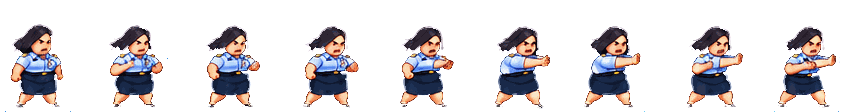
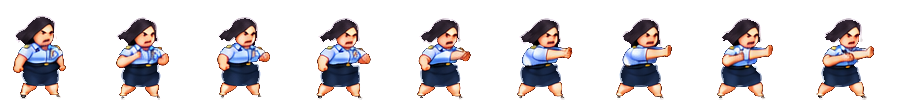
v71: YOTA remodel from the no-grid sheet — registered frames, smooth idle, matched scale
Claude-Session: https://claude.ai/code/session_01VFZcD5MpvnMAPzCcrJgChf

diff --git a/public/index.html b/public/index.html
@@ -9,9 +9,9 @@
 <meta name="apple-mobile-web-app-title" content="LETTERⁿ">
 <meta name="theme-color" content="#08070f">
 <meta name="description" content="LETTERⁿ — เกมสะกดคำภาษาอังกฤษสู้มอนสเตอร์">
-<link rel="manifest" href="manifest.json?v=70">
-<link rel="icon" href="icons/icon-192.png?v=70">
-<link rel="apple-touch-icon" href="icons/apple-touch-icon.png?v=70">
+<link rel="manifest" href="manifest.json?v=71">
+<link rel="icon" href="icons/icon-192.png?v=71">
+<link rel="apple-touch-icon" href="icons/apple-touch-icon.png?v=71">
 <meta name="apple-mobile-web-app-capable" content="yes">
 <title>LETTERⁿ — Word Battle RPG</title>
 <link rel="preconnect" href="https://fonts.googleapis.com">
@@ -1333,20 +1333,20 @@ button,.tile{touch-action:manipulation;-webkit-tap-highlight-color:transparent}
   .modal-box,.sheet{max-height:92vh;overflow-y:auto}
 }
 </style>
-<link rel="stylesheet" href="css/ql2.css?v=70">
-<link rel="stylesheet" href="css/endgame.css?v=70">
-<link rel="stylesheet" href="css/battle.css?v=70">
-<link rel="stylesheet" href="css/ui26.css?v=70">
-<link rel="stylesheet" href="css/boss.css?v=70">
-<link rel="stylesheet" href="css/tactics.css?v=70">
-<link rel="stylesheet" href="css/ecl.css?v=70">
+<link rel="stylesheet" href="css/ql2.css?v=71">
+<link rel="stylesheet" href="css/endgame.css?v=71">
+<link rel="stylesheet" href="css/battle.css?v=71">
+<link rel="stylesheet" href="css/ui26.css?v=71">
+<link rel="stylesheet" href="css/boss.css?v=71">
+<link rel="stylesheet" href="css/tactics.css?v=71">
+<link rel="stylesheet" href="css/ecl.css?v=71">
 </head>
 <body>
 <div id="app"></div>
-<script src="js/ql2/balance.js?v=70"></script>
-<script src="data/lexicon.js?v=70"></script>
-<script src="data/vocabulary.js?v=70"></script>
-<script src="js/ql2/vocab.js?v=70"></script>
+<script src="js/ql2/balance.js?v=71"></script>
+<script src="data/lexicon.js?v=71"></script>
+<script src="data/vocabulary.js?v=71"></script>
+<script src="js/ql2/vocab.js?v=71"></script>
 <script>window.__QL2 = 1; setTimeout(function(){ if(!window.__QL2_READY && typeof render==='function'){ window.__QL2 = 0; render(); } }, 5000);</script>
 <div class="toasts" id="toasts"></div>
 <div id="overlay"></div>
@@ -1794,7 +1794,7 @@ const ARMOR_OV = {
 */
 const HERO_IMG = {
 };
-const HERO_IMG_VER = 23; // เปลี่ยนภาพแล้วภาพเก่ายังค้าง → เพิ่มเลขนี้ทีละ 1
+const HERO_IMG_VER = 24; // เปลี่ยนภาพแล้วภาพเก่ายังค้าง → เพิ่มเลขนี้ทีละ 1
 function heroImgSVG(cfg){
   const h = cfg.h || 160, w = h, x = -w/2 + (cfg.dx||0), y = -h + (cfg.dy||0);
   const src = cfg.src + (cfg.src.includes('?') ? '&' : '?') + 'v=' + HERO_IMG_VER;
@@ -6076,7 +6076,7 @@ render();
 setMusic(save.settings.music);
 if('serviceWorker' in navigator && location.protocol.startsWith('http')) navigator.serviceWorker.register('service-worker.js', { updateViaCache:'none' }).then(r=>{ window.__swReg = r; }).catch(()=>{});
 /* v66: never run a half-updated game — if the server has a newer version, reload once (not in the middle of a battle / exam) */
-const APP_VERSION = 70;
+const APP_VERSION = 71;
 (function(){
   let busy = false;
   async function check(){
@@ -7069,40 +7069,40 @@ document.documentElement.classList.add('v16');
 if(ui.screen!=='battle') render();
 </script>
 <!-- Quest Lines 2.0 — World & Progression (loaded after the game; wraps it, never replaces the battle) -->
-<script src="js/ql2/core.js?v=70"></script>
-<script src="js/ql2/quests.js?v=70"></script>
-<script src="js/ql2/shell.js?v=70"></script>
-<script src="js/ql2/settings.js?v=70"></script>
-<script src="js/ql2/hub.js?v=70"></script>
-<script src="js/ql2/world.js?v=70"></script>
-<script src="js/ql2/questboard.js?v=70"></script>
-<script src="js/ql2/heroes.js?v=70"></script>
-<script src="js/ql2/inventory.js?v=70"></script>
-<script src="js/ql2/codex.js?v=70"></script>
-<script src="js/ql2/profile.js?v=70"></script>
-<script src="js/ql2/endgame-core.js?v=70"></script>
-<script src="js/ql2/endgame-modes.js?v=70"></script>
-<script src="js/ql2/endgame-ui.js?v=70"></script>
-<script src="js/ql2/armory.js?v=70"></script>
-<script src="js/ql2/items.js?v=70"></script>
-<script src="js/ql2/more.js?v=70"></script>
-<script src="js/ql2/wordfx.js?v=70"></script>
-<script src="js/ql2/boss-encounter.js?v=70"></script>
-<script src="js/ql2/zombies.js?v=70"></script>
-<script src="js/ql2/bestiary.js?v=70"></script>
-<script src="js/ql2/kirby.js?v=70"></script>
-<script src="js/ql2/knight.js?v=70"></script>
-<script src="js/ql2/unlocks.js?v=70"></script>
-<script src="js/ql2/tactics.js?v=70"></script>
-<script src="js/ql2/events.js?v=70"></script>
-<script src="js/ql2/ecl.js?v=70"></script>
-<script src="js/ql2/luffy.js?v=70"></script>
-<script src="js/ql2/sonic.js?v=70"></script>
-<script src="js/ql2/heroplus.js?v=70"></script>
-<script src="js/ql2/heroup.js?v=70"></script>
-<script src="js/ql2/ultcharge.js?v=70"></script>
-<script src="js/ql2/yota.js?v=70"></script>
-<script src="js/ql2/title.js?v=70"></script>
-<script src="js/ql2/dev.js?v=70"></script>
-<script src="js/ql2/boot.js?v=70"></script>
+<script src="js/ql2/core.js?v=71"></script>
+<script src="js/ql2/quests.js?v=71"></script>
+<script src="js/ql2/shell.js?v=71"></script>
+<script src="js/ql2/settings.js?v=71"></script>
+<script src="js/ql2/hub.js?v=71"></script>
+<script src="js/ql2/world.js?v=71"></script>
+<script src="js/ql2/questboard.js?v=71"></script>
+<script src="js/ql2/heroes.js?v=71"></script>
+<script src="js/ql2/inventory.js?v=71"></script>
+<script src="js/ql2/codex.js?v=71"></script>
+<script src="js/ql2/profile.js?v=71"></script>
+<script src="js/ql2/endgame-core.js?v=71"></script>
+<script src="js/ql2/endgame-modes.js?v=71"></script>
+<script src="js/ql2/endgame-ui.js?v=71"></script>
+<script src="js/ql2/armory.js?v=71"></script>
+<script src="js/ql2/items.js?v=71"></script>
+<script src="js/ql2/more.js?v=71"></script>
+<script src="js/ql2/wordfx.js?v=71"></script>
+<script src="js/ql2/boss-encounter.js?v=71"></script>
+<script src="js/ql2/zombies.js?v=71"></script>
+<script src="js/ql2/bestiary.js?v=71"></script>
+<script src="js/ql2/kirby.js?v=71"></script>
+<script src="js/ql2/knight.js?v=71"></script>
+<script src="js/ql2/unlocks.js?v=71"></script>
+<script src="js/ql2/tactics.js?v=71"></script>
+<script src="js/ql2/events.js?v=71"></script>
+<script src="js/ql2/ecl.js?v=71"></script>
+<script src="js/ql2/luffy.js?v=71"></script>
+<script src="js/ql2/sonic.js?v=71"></script>
+<script src="js/ql2/heroplus.js?v=71"></script>
+<script src="js/ql2/heroup.js?v=71"></script>
+<script src="js/ql2/ultcharge.js?v=71"></script>
+<script src="js/ql2/yota.js?v=71"></script>
+<script src="js/ql2/title.js?v=71"></script>
+<script src="js/ql2/dev.js?v=71"></script>
+<script src="js/ql2/boot.js?v=71"></script>
 </body></html>

diff --git a/public/js/ql2/yota.js b/public/js/ql2/yota.js
@@ -21,25 +21,26 @@
    ========================================================================== */
 (function(){
   const YT = BALANCE.YOTA, pc = x => `+${BALANCE.pct(x)}%`, K = 'yota', SVGNS = 'http://www.w3.org/2000/svg';
-  const S = 2;   // sprite scale (also used for the hand / palm positions below)
-  // v69b: re-cut from "Meshy AI · sprite sheet with walk cycle" (boxed frames, clean poses, isolated VFX)
-  HERO_SPRITE.yota = { dir:'heroes/yota/', ch:112, scale:S, face:'-32 -178 68 68',
+  const S = 1.4;   // sprite scale — sized to stand beside Mia / ELON (also used for the hand / palm positions below)
+  // v71: re-cut from "Meshy AI · sprite sheet (no grid lines)" — every pose is REGISTERED (frames
+  // aligned to each other by image correlation) so nothing wobbles; idle re-ordered into one smooth breath
+  HERO_SPRITE.yota = { dir:'heroes/yota/', ch:100, scale:S, face:'-24 -120 48 48',
     anims:{
-      idle:   { n:12, cw:80,  ax:38, dur:1.6, loop:true },
-      walk:   { n:12, cw:80,  ax:38, dur:1.0, loop:true, th:'เดิน' },
-      hurt:   { n:12, cw:96,  ax:42, dur:.8 },
-      dead:   { n:10, cw:120, ax:60, dur:1.5 },
-      push:   { n:9,  cw:96,  ax:38, dur:.7,  th:'ส่งค่าเช่าบ้านยัง!!!' },
-      palm:   { n:5,  cw:96,  ax:38, dur:.45, th:'ฝ่ามือทวงหนี้' },
-      charge: { n:6,  cw:96,  ax:38, dur:.6,  th:'ชาร์จลำแสง' },
-      fire:   { n:12, cw:96,  ax:38, dur:1.0, loop:true, th:'ลำแสงค่าเช่า' },
-      recover:{ n:15, cw:96,  ax:38, dur:1.0, th:'ปัดฝุ่น' } },
+      idle:   { n:12, cw:80,  ax:40, dur:1.8, loop:true },
+      walk:   { n:12, cw:80,  ax:40, dur:1.0, loop:true, th:'เดิน' },
+      hurt:   { n:12, cw:96,  ax:44, dur:.8 },
+      dead:   { n:7,  cw:160, ax:60, dur:1.3 },
+      push:   { n:9,  cw:100, ax:40, dur:.7,  th:'ส่งค่าเช่าบ้านยัง!!!' },
+      palm:   { n:5,  cw:100, ax:40, dur:.45, th:'ฝ่ามือทวงหนี้' },
+      charge: { n:6,  cw:100, ax:40, dur:.6,  th:'ชาร์จลำแสง' },
+      fire:   { n:12, cw:100, ax:40, dur:1.0, loop:true, th:'ลำแสงค่าเช่า' },
+      recover:{ n:15, cw:100, ax:40, dur:1.0, th:'ปัดฝุ่น' } },
     attacks:['palm','charge'], extra:['push','recover','walk'], demoOnly:true, finisher:'fire', finMin:99,
     finNote:`ท่าเปลี่ยนตามความยาวคำ: <b>3–4 ตัว</b> ฝ่ามือทวงหนี้ · <b>5–6 ตัว</b> ลำแสงค่าเช่า ${pc(YT.beam)} · <b>7 ตัวขึ้นไป / Critical</b> ไฮเปอร์บีมยึดบ้าน ${pc(YT.hyper)} ทะลุศัตรูที่รอคิว · ศัตรูรอดแต่ละเทิร์นค้างหนี้ 📄 เพิ่ม` };
-  const HAND = { x: (72-38)*S, y: (109-54)*S };    // arm stretched (fire frames)
-  const PALM = { x: (66-38)*S, y: (109-60)*S };    // the palm while charging / shoving
+  const HAND = { x: (73-40)*S, y: (97-45)*S };    // arm stretched (fire frames)
+  const PALM = { x: (69-40)*S, y: (97-50)*S };    // the palm while charging / shoving
   // isolated effects from the sheet (square cells)
-  const FXS = { orb:{ w:44, n:12 }, ring:{ w:64, n:5 }, dissolve:{ w:66, n:24 } };
+  const FXS = { orb:{ w:44, n:12 }, ring:{ w:60, n:5 }, dissolve:{ w:68, n:12 }, bits:{ w:68, n:12 } };
   Object.keys(FXS).forEach(k => { const i = new Image(); i.src = `heroes/yota/fx_${k}.png?v=${HERO_IMG_VER}`; });
   const sfxStrip = (k, o) => { const F = FXS[k]; try{ return window.QL_STRIP_FX ? QL_STRIP_FX(`heroes/yota/fx_${k}.png`, F.w, F.w, F.n, o) : null; }catch(e){ return null; } };
   // the same visibility rules the engine builds for its own sprite heroes (index.html sprCSS)
@@ -59,7 +60,7 @@
     const st = document.createElement('style'); st.textContent = css; document.head.appendChild(st);
     Object.keys(c.anims).forEach(n => { const i = new Image(); i.src = `${c.dir}${n}.png?v=${HERO_IMG_VER}`; });
   })();
-  try{ HERO_PORTRAIT.yota = { src:'heroes/yota/portrait.png', w:34, h:34, vb:'0 0 34 34' }; }catch(e){}
+  try{ HERO_PORTRAIT.yota = { src:'heroes/yota/portrait.png', w:36, h:36, vb:'0 0 36 36' }; }catch(e){}
 
   CHARACTERS.push({ id:K, devOnly:true, name:'YOTA', th:'โยตะ ผู้กองทวงค่าเช่า', price:5500, role:'ลำแสง · ทวงหนี้', skill:'ลำแสงทวงค่าเช่า',
     desc:`ก่อนสู้ทุกด่านยื่นมือทวง "ส่งค่าเช่าบ้านยัง!!!" · 3–4 ตัว ฝ่ามือทวงหนี้ · 5–6 ตัว ลำแสงค่าเช่า ${pc(YT.beam)} · 7 ตัวขึ้นไปหรือ Critical ไฮเปอร์บีมยึดบ้าน ${pc(YT.hyper)} ทะลุศัตรูที่รอคิว ${BALANCE.pct(YT.pierce)}% · ดอกเบี้ยค้างจ่าย: ศัตรูรอดแต่ละเทิร์นค้างหนี้ 📄 +1 (สูงสุด ${YT.debtMax}) ใบละ ${pc(YT.debtPer)} · ลำแสง (5 ตัวขึ้นไป) เก็บค่าเช่า ล้างหนี้ + ฟื้น HP ${BALANCE.pct(YT.healPer)}% ต่อใบ`,
@@ -135,7 +136,7 @@
     const W = w + 34, H = size + 22;
     box.setAttribute('x', -W/2); box.setAttribute('y', -H/2); box.setAttribute('width', W); box.setAttribute('height', H);
     // sits beside her head, the tail points back at her mouth
-    const x = opts.x || HERO_X + 30 + W/2, y = opts.y || FLOOR_Y - 138;
+    const x = opts.x || HERO_X + 30 + W/2, y = opts.y || FLOOR_Y - 112;
     tail.setAttribute('transform', `translate(${-W/2 + 6},4)`);
     g.appendChild(tail); g.appendChild(box); g.appendChild(t);   // tail behind the box
     g.insertBefore(tail, box);
@@ -409,7 +410,8 @@
     if(a){ a.classList.add('dead'); sprRestart('dead'); }
     try{ sfx.hurt(); }catch(err){}
     await sleep(sprMs('dead', 1500) + 150);
-    const d = sfxStrip('dissolve', { x:HERO_X, y:FLOOR_Y + 10, anchor:'b', scale:2.6, ms:55 });
+    const d = sfxStrip('dissolve', { x:HERO_X, y:FLOOR_Y + 8, anchor:'b', scale:2.6, ms:60 });
+    setTimeout(() => sfxStrip('bits', { x:HERO_X, y:FLOOR_Y + 8, anchor:'b', scale:2.6, ms:70 }), 700);
     try{ tone2(900, 200, 1.1, 'triangle', .07); noise(.6, .08); }catch(err){}
     if(a) anim(a, [{opacity:1},{opacity:1,offset:.25},{opacity:0}], { duration:900, easing:'ease-in', fill:'forwards' });
     if(!d) bits(HERO_X, FLOOR_Y - 30, 26, 120);

diff --git a/public/service-worker.js b/public/service-worker.js
@@ -1,5 +1,5 @@
-const CACHE_NAME = 'quest-lines-v70';
-const V = '?v=70';
+const CACHE_NAME = 'quest-lines-v71';
+const V = '?v=71';
 const MODULES = ['balance','vocab','core','quests','shell','settings','hub','world','questboard','heroes','inventory','codex','profile','endgame-core','endgame-modes','endgame-ui','armory','items','more','wordfx','boss-encounter','zombies','bestiary','kirby','knight','unlocks','tactics','events','ecl','luffy','sonic','heroplus','heroup','ultcharge','yota','title','dev','boot'];
 const APP_SHELL = ['./', './index.html', './manifest.json', './scenes/hub/cave.png', './title/logo.webp', './npc/merchant.png', './icons/icon-192.png', './icons/icon-512.png', './css/ql2.css' + V, './css/endgame.css' + V, './css/battle.css' + V, './css/ui26.css' + V, './css/boss.css' + V, './css/tactics.css' + V, './css/ecl.css' + V,
   './data/lexicon.js' + V, './data/vocabulary.js' + V,

diff --git a/public/heroes/README.md b/public/heroes/README.md
@@ -68,6 +68,8 @@ pip · mira · rook · bastion · luma · bruna · kiko · boomtos · puff
 - เอฟเฟกต์ (แถบหลายเฟรม): `muzzle` แสงปากกระบอก · `lemon` ไม่ชาร์จ · `ring` x1 · `pink` x2 · `xfire` x3 · `lvl4` x4+ (ใหญ่ขึ้นเรื่อยๆ) · `burstB/burstP` ระเบิดตอนโดน · `aura` ประกายชาร์จรอบตัว · `bubble` วงแหวนตอนแพ้ · `mug.png` ไอคอน HP
 
 ## YOTA — โฟลเดอร์ `heroes/yota/`
-- ตัดจาก "Meshy AI · sprite sheet with walk cycle" (ชีตที่ผู้พัฒนาให้มา แต่ละเฟรมอยู่ในกรอบ) — ลบพื้นดำและเส้นกรอบ จัดเท้าชิดขอบล่าง ช่องสูง `ch:112` ขยาย `scale:2` (ภาพเรียบ ใช้ `image-rendering:auto`)
-- ท่า: idle 12 · walk 12 · hurt 12 · dead 10 (ล้มลงนอน) · push 9 (ดันมือก่อนสู้) · palm 5 · charge 6 · fire 12 (ยื่นแขนดัน วนซ้ำระหว่างยิง) · recover 15
-- VFX (ช่องสี่เหลี่ยม): `fx_orb` 12 (ลูกพลังโตขึ้น) · `fx_ring` 5 · `fx_dissolve` 24 (ร่างสลาย) · ลำแสงยาว/ลูกโป่งคำพูดวาดด้วย SVG ใน `yota.js` · `portrait.png` = หน้าในไอคอน HP
+- ตัดจาก "Meshy AI · sprite sheet (no grid lines)" (ชีตที่ผู้พัฒนาให้มา) — ลบพื้นดำ แยกเฟรมตามชิ้นภาพ แล้ว **จัดเฟรมให้ตรงกัน (registration)**: ท่ายืน/เดินเทียบหัว+ลำตัว ท่าโจมตี/โดนตีเทียบขา เท้าอยู่บนพื้นเดียวกันทุกเฟรม
+- ท่ายืนเรียงลำดับตามความสูงหัวให้เป็นการหายใจขึ้น-ลงจังหวะเดียว (ภาพ AI แต่ละเฟรมสูงไม่เท่ากัน ถ้าเรียงตามชีตจะดูกระตุก)
+- ช่องสูง `ch:100` ขยาย `scale:1.4` (ขนาดเท่า Mia) · ภาพเรียบ ใช้ `image-rendering:auto` · เก็บเป็น PNG สีเต็ม
+- ท่า: idle 12 · walk 12 · hurt 12 · dead 7 (ล้มแล้วร่างนิ่งอยู่กับที่) · push 9 · palm 5 · charge 6 · fire 12 (วนระหว่างยิง) · recover 15
+- VFX: `fx_orb` 12 · `fx_ring` 5 · `fx_dissolve` 12 · `fx_bits` 12 · ลำแสงยาว/ลูกโป่งคำพูดวาดด้วย SVG ใน `yota.js` · `portrait.png` = หน้าในไอคอน HP

diff --git a/README.md b/README.md
@@ -23,6 +23,7 @@
 - ⚔ Ultimate: **GIGA RENT CANNON** (ค่าเช่า! ค่าน้ำ! ค่าไฟ!!!) · Ultimate แท็กติก: **หมายศาลยึดบ้าน** แปะหมายแล้วปั๊ม "ยึด!" หนี้เต็ม 5 ใบ + ศัตรูมึนงง 1 เทิร์น + ขัดท่า · เกจเฉพาะตัว RENT DUE (เก็บหนี้ 3 ใบขึ้นไป / ไฮเปอร์บีม)
 - ตอนแพ้ล้มลงแล้วร่างสลายเป็นพิกเซลสีฟ้า (VFX จากชีต) ก่อนขึ้นหน้าพ่ายแพ้ · ตัวเลขทั้งหมดอยู่ที่ `BALANCE.YOTA`
 - **v70 (อัปเดต YOTA):** ตัดสไปรต์ใหม่จากชีตเวอร์ชันมีกรอบ (walk cycle) — ภาพสะอาดไม่ขาด/เกิน · เพิ่มท่าเดิน 12 เฟรม · ท่ายิงลำแสง 12 เฟรมขยับต่อเนื่อง · ลูกพลังในมือ/ลูกพลังที่ยิง/การสลายร่าง ใช้ VFX ของชีตเอง (`fx_orb`, `fx_dissolve`)
+- **v71 (รีโมเดล YOTA):** ตัดใหม่จากชีตไม่มีเส้นกริด · ทุกท่าจัดเฟรมให้ตรงกันด้วยการเทียบภาพ (ไม่สั่น/ไม่กระตุก) · ท่ายืนเรียงเป็นจังหวะหายใจเดียว · ล้มลงแล้วร่างนิ่งอยู่กับที่ · ขนาดลดลง (`scale:1.4`) ให้เท่าฮีโร่ตัวอื่น · ไฟล์ภาพสีเต็ม (ไม่ลดสี) ให้เกรเดียนต์เนียน
 - เริ่มเป็น `devOnly:true` (เห็นเฉพาะโหมดทดสอบ) — ปล่อยให้ผู้เล่นทั่วไปได้โดยลบ `devOnly:true` ใน `CHARACTERS.push` ของ `yota.js` · ปลดล็อก: ผ่านบท 3 + เลือก 2 ใน 3 (คำยาว 25 · Ultimate 10 · Flawless 3) · 5,500 ทอง
 
 ## ⚡ ใหม่ใน v68 — ULTIMATE 2.0 (`js/ql2/ultcharge.js`)
